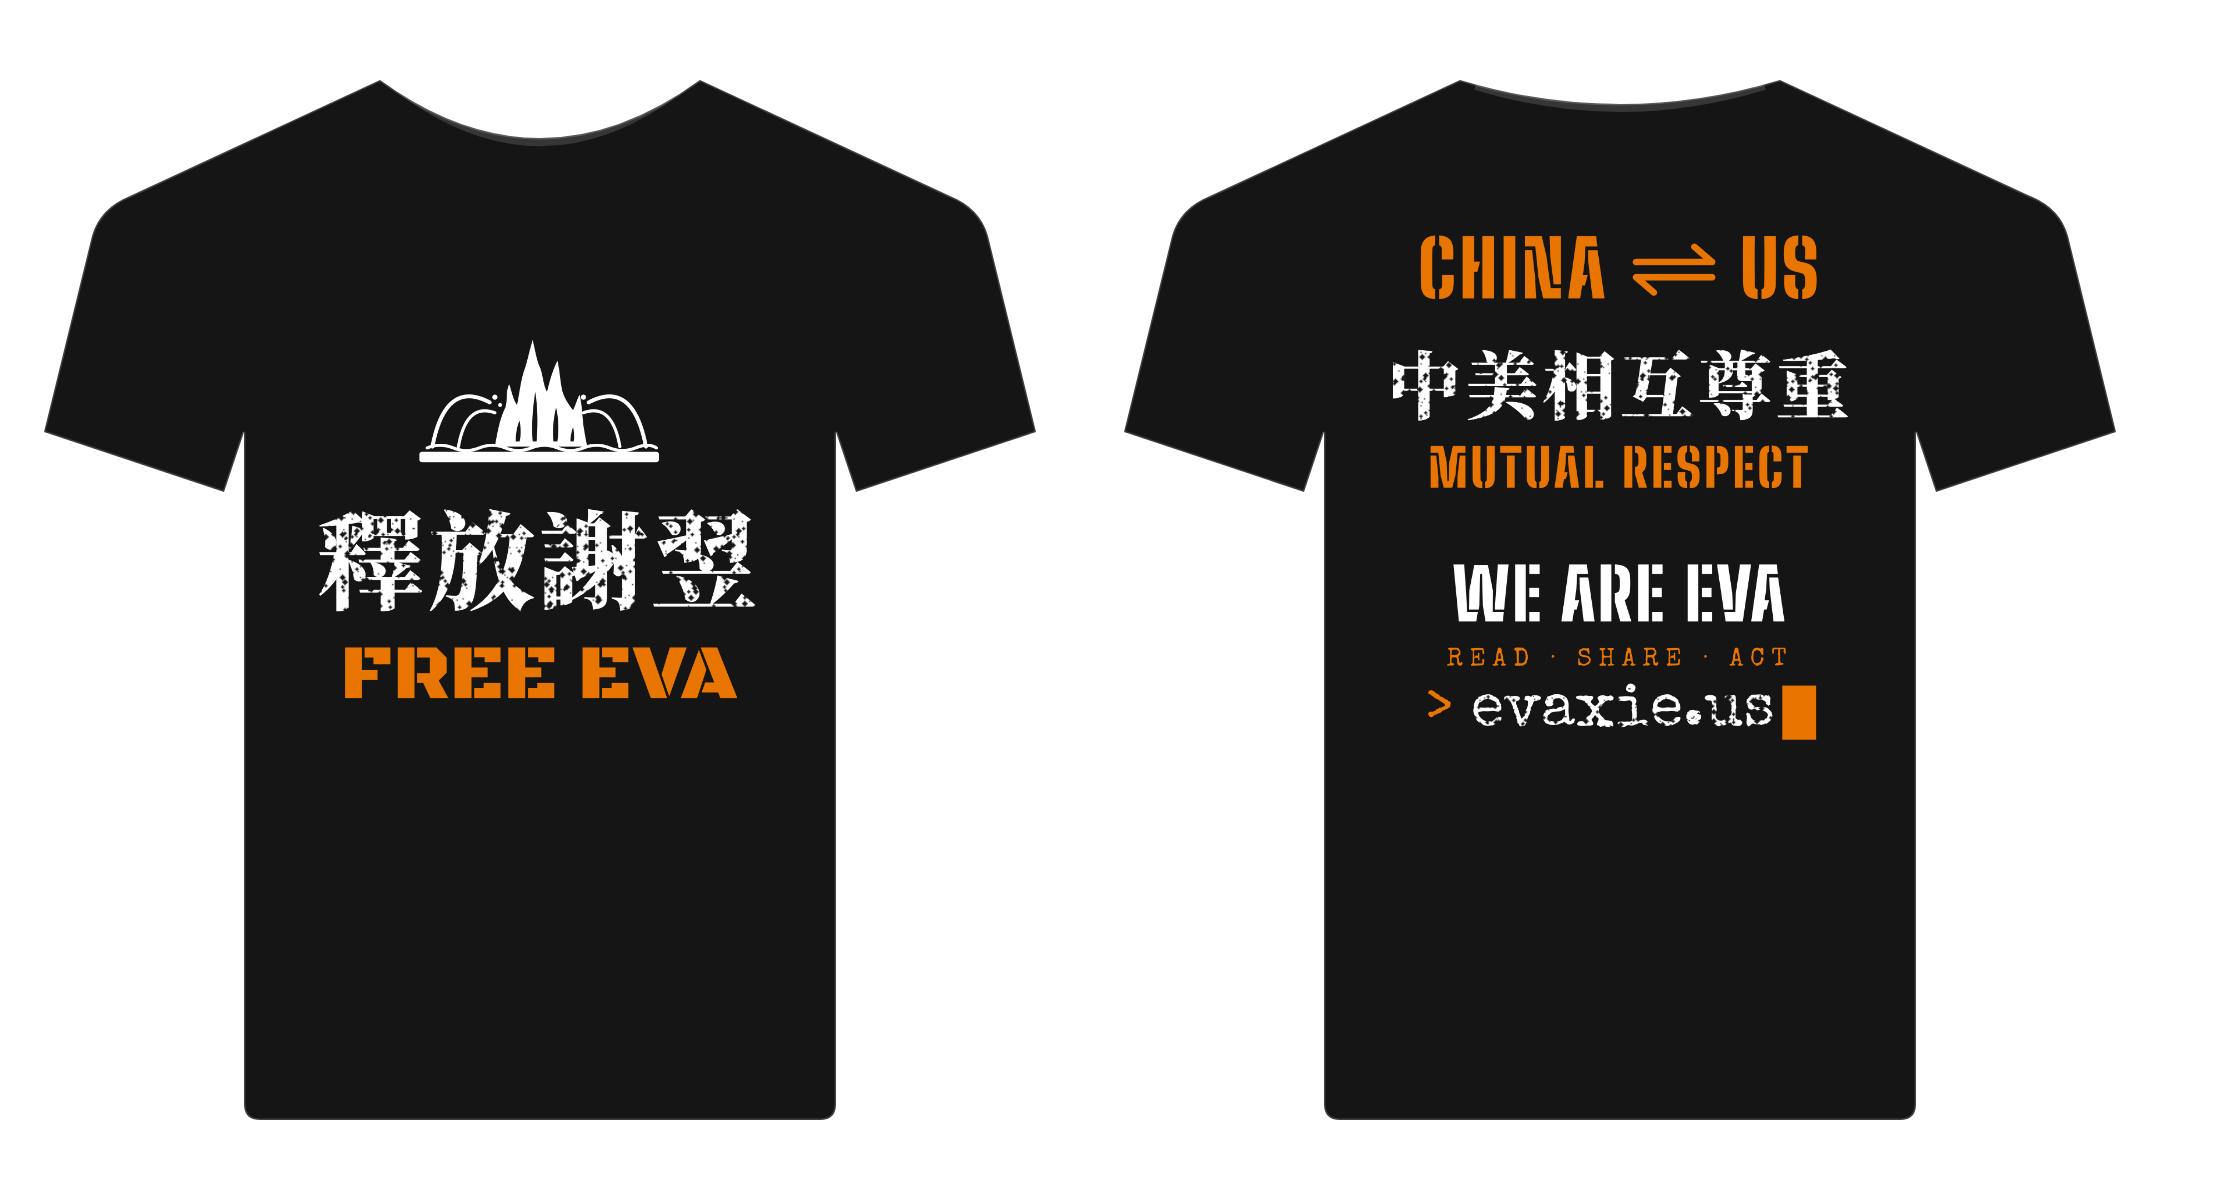
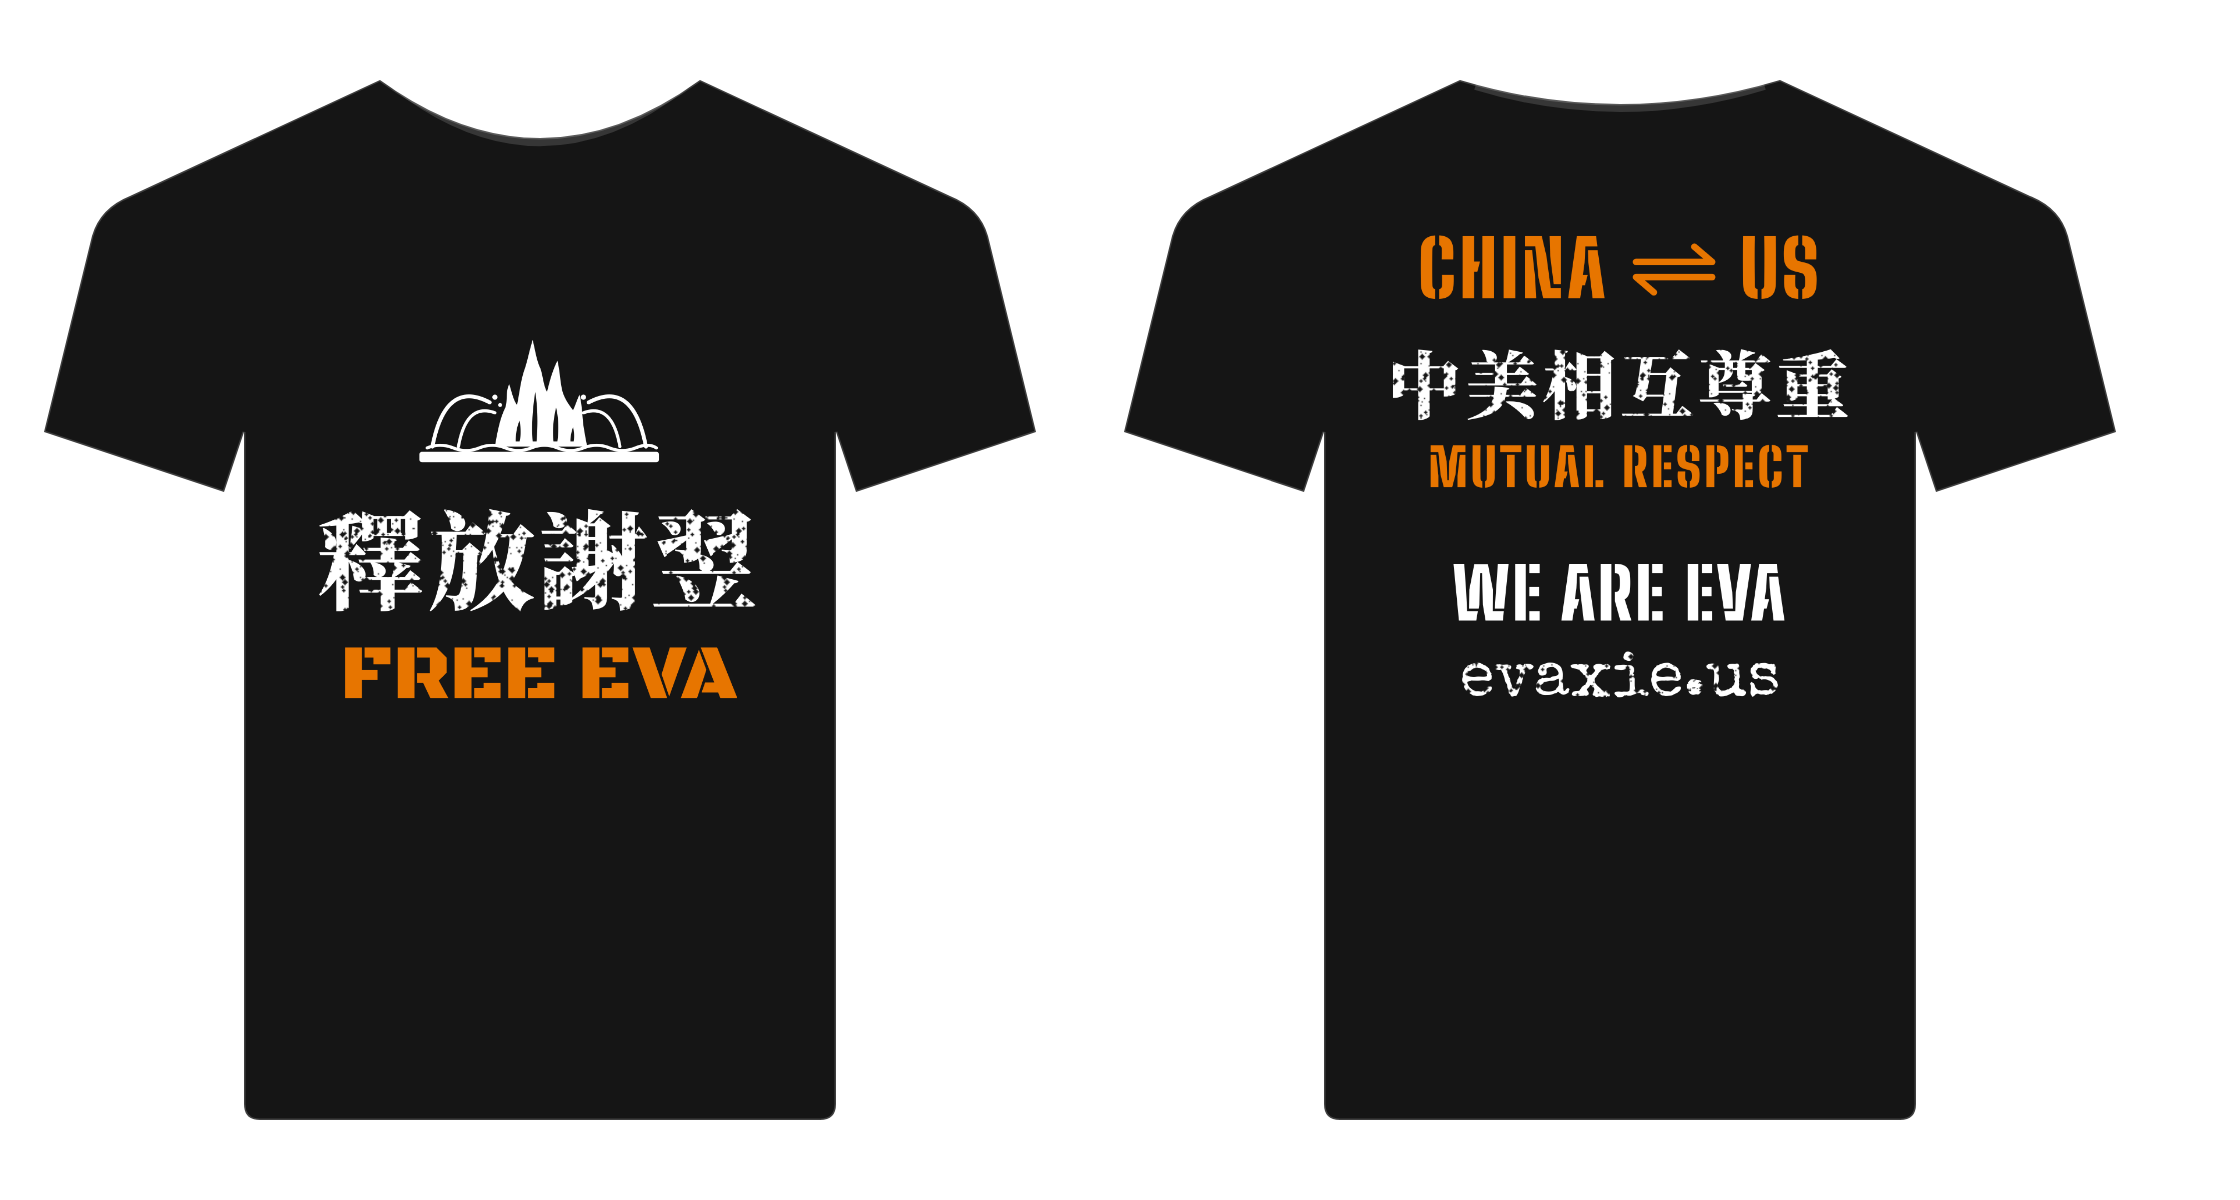
Shirt back: URL as plain typewriter evaxie.us
Claude-Session: https://claude.ai/code/session_01Lg8vxUbiHk6f7FP2Kup6m8

Changed region(s): [[0.6562, 0.5242, 0.8125, 0.6167], [0.75, 0.3083, 0.8125, 0.3392], [0.6562, 0.3083, 0.7188, 0.3392]]

diff --git a/Swag/bonfire/print-source.html b/Swag/bonfire/print-source.html
@@ -22,10 +22,7 @@ body{margin:0;background:transparent}
   <div class="bs o" style="font-size:31px">MUTUAL RESPECT</div>
   <div style="display:flex;flex-direction:column;align-items:center;gap:8px;margin-top:28px">
     <div class="bs w" style="font-size:42px;letter-spacing:1.5px">WE ARE EVA</div>
-    <div style="display:flex;flex-direction:column;align-items:center;gap:6px;margin-top:2px">
-      <div style="font-family:'Special Elite';font-size:15px;letter-spacing:4px;color:#E77500;white-space:nowrap">READ · SHARE · ACT</div>
-      <div style="display:flex;align-items:center;font-family:'Special Elite';font-size:36px;line-height:1;white-space:nowrap"><span style="color:#E77500;margin-right:.3em">&gt;</span><span class="worn" style="color:#fff">evaxie.us</span><span style="display:inline-block;width:.55em;height:.9em;background:#E77500;margin-left:.12em"></span></div>
-    </div>
+    <div class="worn" style="font-family:'Special Elite';font-size:38px;line-height:1;color:#fff;white-space:nowrap;margin-top:4px">evaxie.us</div>
   </div>
 </div>
 </body></html>

diff --git a/Swag/README.md b/Swag/README.md
@@ -8,13 +8,13 @@ Upload files for the rally shirt, made to Bonfire's artwork guidance (PNG, trans
 | File | Size | Prints at |
 | --- | --- | --- |
 | `bonfire/bonfire-front.png` | 3312 x 2912 px | about 11 x 9.7 in, chest |
-| `bonfire/bonfire-back.png` | 3300 x 3614 px | about 11 x 12 in, upper back |
+| `bonfire/bonfire-back.png` | 3300 x 3416 px | about 11 x 11.4 in, upper back |
 
 - Shirt color: black. Inks: orange #E77500 and white.
 - Front has a Fountain of Freedom icon (Scudder Plaza, where the rally is held) above 釋放謝翌; the icon alone is `bonfire/fountain-of-freedom-icon.svg`.
 - The Princeton shield and fountain icons from the rally shirt are left off, because the university's
   marks can't be sold on merchandise without a license.
-- Back URL line: "READ · SHARE · ACT" over `> evaxie.us` with a cursor block, in the Special Elite typewriter font (other options in `bonfire/url-options.png`).
+- Back URL line: `evaxie.us` in the Special Elite typewriter font with the worn print texture (other options considered in `bonfire/url-options.png`).
 - `bonfire/shirt-mockup.png` is the front and back preview used on the site's Shop page.
 - `bonfire/print-source.html` + `bonfire/render.js` regenerate the files (`node render.js`).
 
